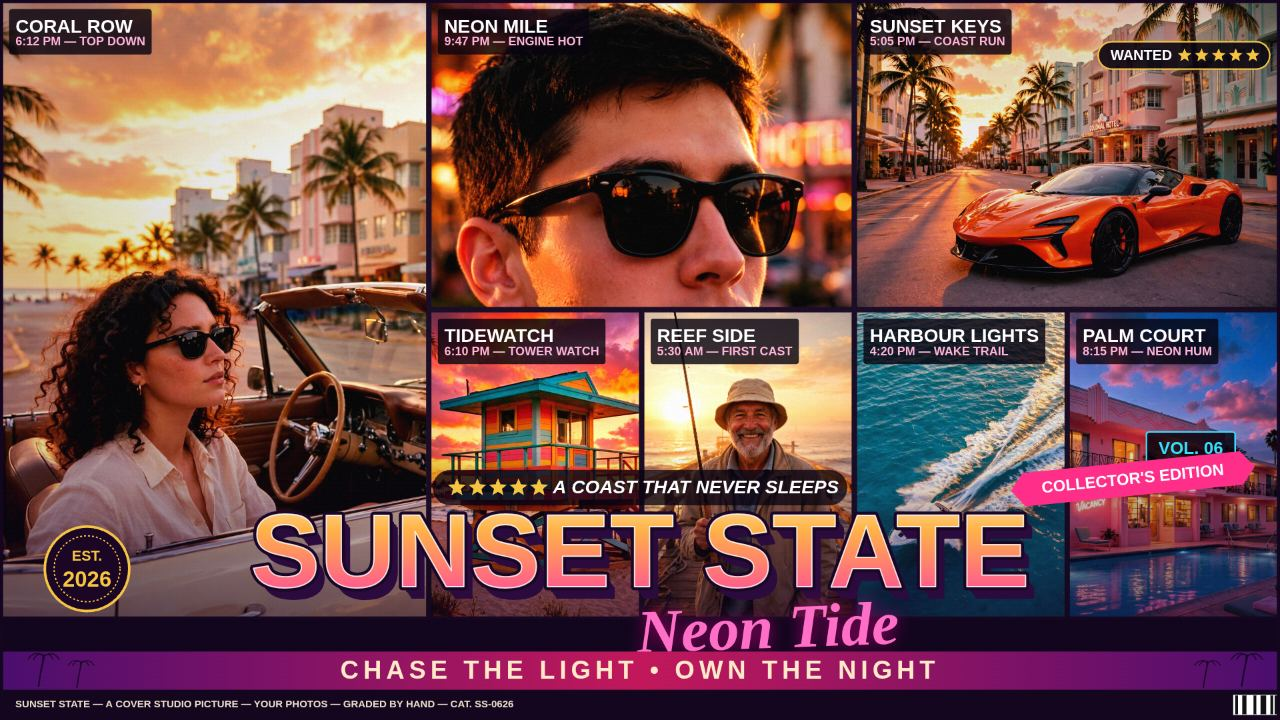
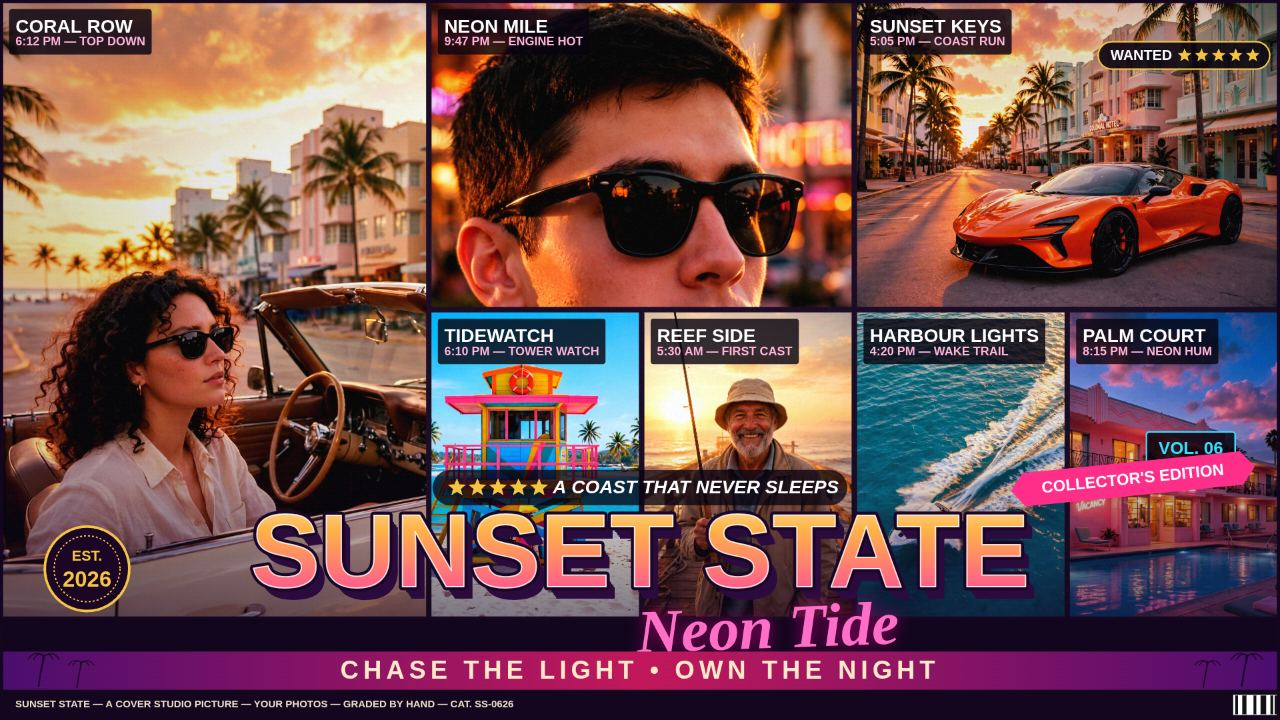
v4: fresh lifeguard tower photo + focus fix + regenerated screenshots

Changed region(s): [[0.3125, 0.4278, 0.5, 0.8556]]

diff --git a/app/index.html b/app/index.html
@@ -285,7 +285,7 @@ const SAMPLES = [
   { id: 'woman',  file: 'samples/sample-woman.jpg',  place: 'CORAL ROW',     time: '6:12 PM', sub: 'TOP DOWN',     focus: { fx: 0.33, fy: 0.58 } },
   { id: 'man',    file: 'samples/sample-man.jpg',    place: 'NEON MILE',     time: '9:47 PM', sub: 'ENGINE HOT',   focus: { fx: 0.48, fy: 0.42 } },
   { id: 'car',    file: 'samples/sample-car.jpg',    place: 'SUNSET KEYS',   time: '5:05 PM', sub: 'COAST RUN',    focus: { fx: 0.62, fy: 0.68 } },
-  { id: 'tower',  file: 'samples/sample-tower.jpg',  place: 'TIDEWATCH',     time: '6:10 PM', sub: 'TOWER WATCH',  focus: { fx: 0.43, fy: 0.42 } },
+  { id: 'tower',  file: 'samples/sample-tower.jpg',  place: 'TIDEWATCH',     time: '6:10 PM', sub: 'TOWER WATCH',  focus: { fx: 0.53, fy: 0.48 } },
   { id: 'angler', file: 'samples/sample-angler.jpg', place: 'REEF SIDE',     time: '5:30 AM', sub: 'FIRST CAST',   focus: { fx: 0.52, fy: 0.35 } },
   { id: 'boat',   file: 'samples/sample-boat.jpg',   place: 'HARBOUR LIGHTS', time: '4:20 PM', sub: 'WAKE TRAIL',  focus: { fx: 0.42, fy: 0.65 } },
   { id: 'motel',  file: 'samples/sample-motel.jpg',  place: 'PALM COURT',    time: '8:15 PM', sub: 'NEON HUM',     focus: { fx: 0.50, fy: 0.50 } },
